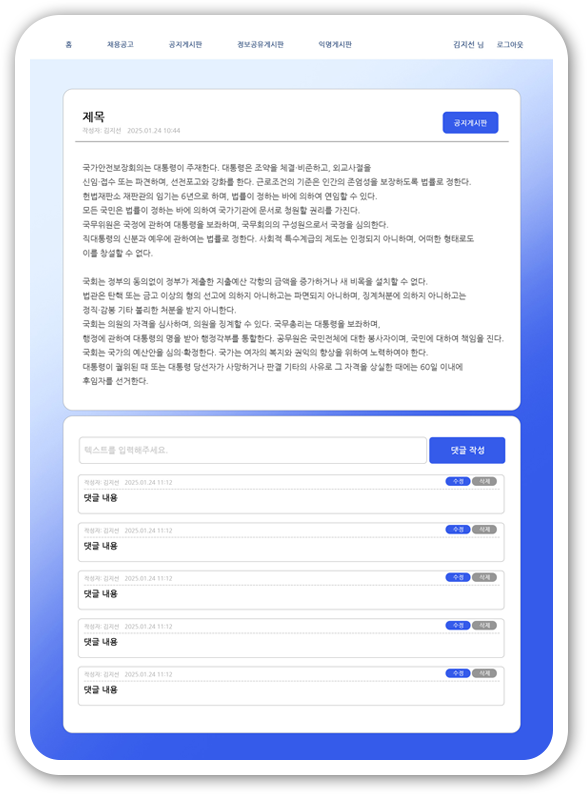
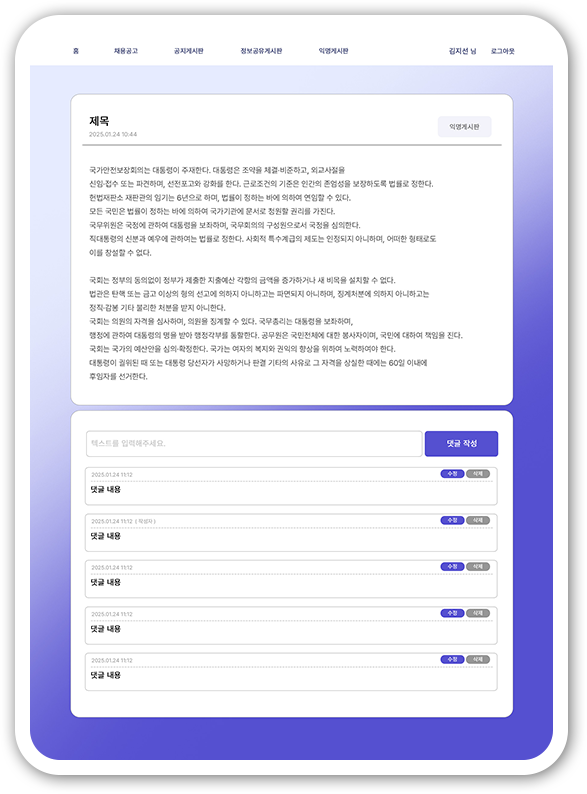
css 수정

diff --git a/TeamProject/src/main/webapp/resources/css/mypage.css b/TeamProject/src/main/webapp/resources/css/mypage.css
@@ -101,7 +101,7 @@ input[type="password"] {
 	display: flex;
 }
 input[type="button"] {
-    background: #355beb;
+    background: #5550d0;
     color: #fff;
     border: none;
     padding: 18px 53px;
@@ -117,7 +117,7 @@ label {
 }
 .lschool-post {
 	display: block;
-	background-color: #e9eef6;
+	background-color: #f3f6ff;
 	border-radius: 10px;
 	padding: 20px;
 	color: #373f73;
@@ -130,7 +130,7 @@ label {
     flex-direction: row;
     justify-content: space-between;
     align-items: center;
-    background-color: #e9eef6;
+    background-color: #f3f6ff;
     border-radius: 10px;
     padding: 20px;
     margin-top: 10px;
@@ -157,7 +157,7 @@ label {
     font-weight: 600;
 }
 .attachment-item {
-    background: #e9eef6;
+    background: #f3f6ff;
     padding: 20px;
     border-radius: 10px;
     margin-top: 10px;

diff --git a/TeamProject/src/main/webapp/resources/css/gonggoWrite.css b/TeamProject/src/main/webapp/resources/css/gonggoWrite.css
@@ -55,9 +55,14 @@ label {
 	appearance: none;
   	display: none;
 }
+.radio span {
+	display: inline-block;
+	padding: 0 5px;
+}
 input[type="radio"]:checked + span {
-	background-color: #355beb;
-	border: 1px solid #355beb;
+	background-color: #5550d0;
+	border: 1px solid #5550d0;
+	border-radius: 30px;
 	color: #fff;
 }
 .flex span {
@@ -96,7 +101,7 @@ textarea{
 	height: 55px;
 	cursor: pointer;
 	text-align: center;
-	background-color: #355beb;
+	background-color: #5550d0;
     font-size: 16px;
     margin-top: 30px;
 }

diff --git a/TeamProject/src/main/webapp/resources/css/gonggo.css b/TeamProject/src/main/webapp/resources/css/gonggo.css
@@ -133,7 +133,7 @@ input[id="cb4"]:checked + label::after{
 	padding: 20px;
 }
 .content {
-	background-color: #e9eef6;
+	background-color: #f3f6ff;
 	width: 100%;
 	margin: 0 auto;
 	margin-bottom: 5px;
@@ -145,7 +145,7 @@ input[id="cb4"]:checked + label::after{
 	cursor: pointer;
 }
 .content:hover {
-	background-color: #dde4ef;
+	background-color: #e6ebfe;
 	
 }
 .content span {

diff --git a/TeamProject/src/main/webapp/resources/css/main.css b/TeamProject/src/main/webapp/resources/css/main.css
@@ -43,7 +43,7 @@ a {
 .slider__inner {       /* 이미지 움직이는 영역 = 전체 이미지를 감싸고있는 부모 : 움직이는 영역 */
     display: flex;
     flex-wrap: wrap;
-    width: 1174px;    /* 총 이미지 4800 */
+    width: 1763px;    /* 총 이미지 4800 */
     height: 794px;
 }
 .slider {             /* 개별적인 이미지 */
